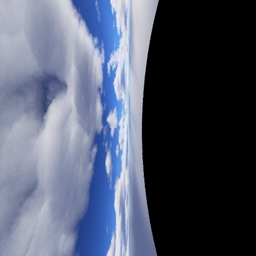
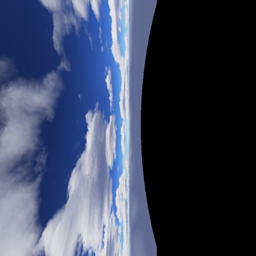
Put the sky cube's east and west faces the right way round
The four wall photos are a continuous panorama and my face assignment
broke it at every seam, which is what the hard brightness step between
the front face and the two beside it was.

cubeFace[0] is east and [1] is west, not the other way round. Measured,
this time, rather than inferred from which way up the horizon looked: six
numbered faces, each a flat colour with a triangle pointing at its own
top edge and a marker in its top-left corner, photographed from all six
directions in the level. Reading the neighbours either side of a known
face gives the compass mapping, and the triangle gives the turn. The
previous rotations happened to level the horizon while leaving the
panorama scrambled.

The same test showed the corner marker landing on the far side from
where it sits in the source, so the cubemap is mirrored seen from
inside. TGE mirrored too -- Sky::initSkyData puts u = 0 at the south
wall's west corner, which is on your right when you face south -- so
they cancel and the faces need no flip, only the turn.

Claude-Session: https://claude.ai/code/session_01LYyzmSqYb99uzznY3p2Rwm

diff --git a/Templates/Full/game/apple-picker/data/skies/materials.cs b/Templates/Full/game/apple-picker/data/skies/materials.cs
@@ -3,42 +3,42 @@
 //
 // TGE's Sky read the .dml as a flat material list and drew it as six quads.
 // Sky::renderSkyBox walks sides 0..5 as four walls, then the top, then the
-// bottom; Sky::initSkyData lays the top corners out counter-clockwise from
+// bottom, and Sky::initSkyData lays the top corners out counter-clockwise from
 // (-r,-r), so side 0 spans SW to SE and the walls run south, east, north, west.
-// Everything from index CloudMaterialOffset (7) on is a cloud layer, which is
-// why the list has seven sky entries for six faces -- day_0007 sits in the
-// unused seventh slot.
+// mSkyHandle takes entries 0..5; EnvMapMaterialOffset is 6, so day_0007 is the
+// environment map rather than a face, and CloudMaterialOffset is 7, so the two
+// cloud1 entries after it are the cloud layers.
 //
-// The cubeFace order documented at gfx/sim/cubemapData.cpp:81-86 names its
-// axes in the cubemap's own Y-up space, not Torque's Z-up world, so the two
-// it calls -Y and +Y are the top and the bottom and the first four are the
-// walls.  core/art/skies/night settles it: skybox_5 is cubeFace[4] and is all
-// stars with no horizon, skybox_6 is cubeFace[5] and is flat ground colour.
+//   day_0001  south    day_0003  north    day_0005  top
+//   day_0002  east     day_0004  west     day_0006  bottom
 //
-//   day_0001   side 0   south wall   cubeFace[2]
-//   day_0002   side 1   east wall    cubeFace[1]
-//   day_0003   side 2   north wall   cubeFace[3]
-//   day_0004   side 3   west wall    cubeFace[0]
-//   day_0005   side 4   top          cubeFace[4]
-//   day_0006   side 5   bottom       cubeFace[5]
+// The cube_N.png faces are those images turned to suit.  TGE drew each wall as
+// its own quad with its own texcoords -- mTexCoord is (0,0),(1,0),(0,1),(1,1)
+// with (0,0) at the wall's top-left -- so all four could be stored the same way
+// up.  A cubemap is one sampler reached through cubeTrans, which takes Torque's
+// Z-up world into the cubemap's Y-up space, and that rotation lands on each
+// side face differently.  No reordering fixes it, which is why stock Torque
+// skyboxes ship their faces pre-turned.
 //
-// The cube_N.png faces are those six images turned to suit.  TGE drew each
-// wall as its own quad with its own texcoords, so all four could be stored the
-// same way up.  A cubemap is one sampler and the direction vector reaches it
-// through cubeTrans, which takes Torque's Z-up world into the cubemap's Y-up
-// space; that rotation lands on each side face differently, so the walls come
-// out at four different angles.  No amount of reordering fixes it, which is
-// why stock Torque skyboxes ship their faces pre-turned.  Measured by standing
-// in the level and looking at each wall in turn:
+// Which index faces which way, and how far each is turned, was measured rather
+// than reasoned about: six numbered faces, each a flat colour with a triangle
+// pointing at its own top edge and a marker in its top-left corner, then
+// photographed from all six directions in the level.
 //
-//   cubeFace[0]  west    day_0004  rotated  90 CCW
-//   cubeFace[1]  east    day_0002  rotated  90 CW
+//   cubeFace[0]  east    day_0002  rotated  90 CCW
+//   cubeFace[1]  west    day_0004  rotated  90 CW
 //   cubeFace[2]  north   day_0003  rotated 180
 //   cubeFace[3]  south   day_0001  as-is
 //   cubeFace[4]  top     day_0005  as-is
 //   cubeFace[5]  bottom  cube_4    reused, never drawn
 //
-// The bottom is day_0005 because day_0006 is 4x4 where every other face is
+// That test also showed the corner marker landing on the far side from where
+// it sits in the source, so the cubemap is mirrored when viewed from inside.
+// TGE mirrored too -- on the south wall it puts u = 0 at the west corner, which
+// is on your right when you face south -- so the two cancel and the faces need
+// no flip, only the turn.
+//
+// The bottom is cube_4 because day_0006 is 4x4 where every other face is
 // 256x256 -- TGE set renderBottomTexture = 0 and never drew it, so nobody
 // noticed.  A cubemap needs all six faces the same size and one that does not
 // match invalidates the whole thing, which then samples black in every
